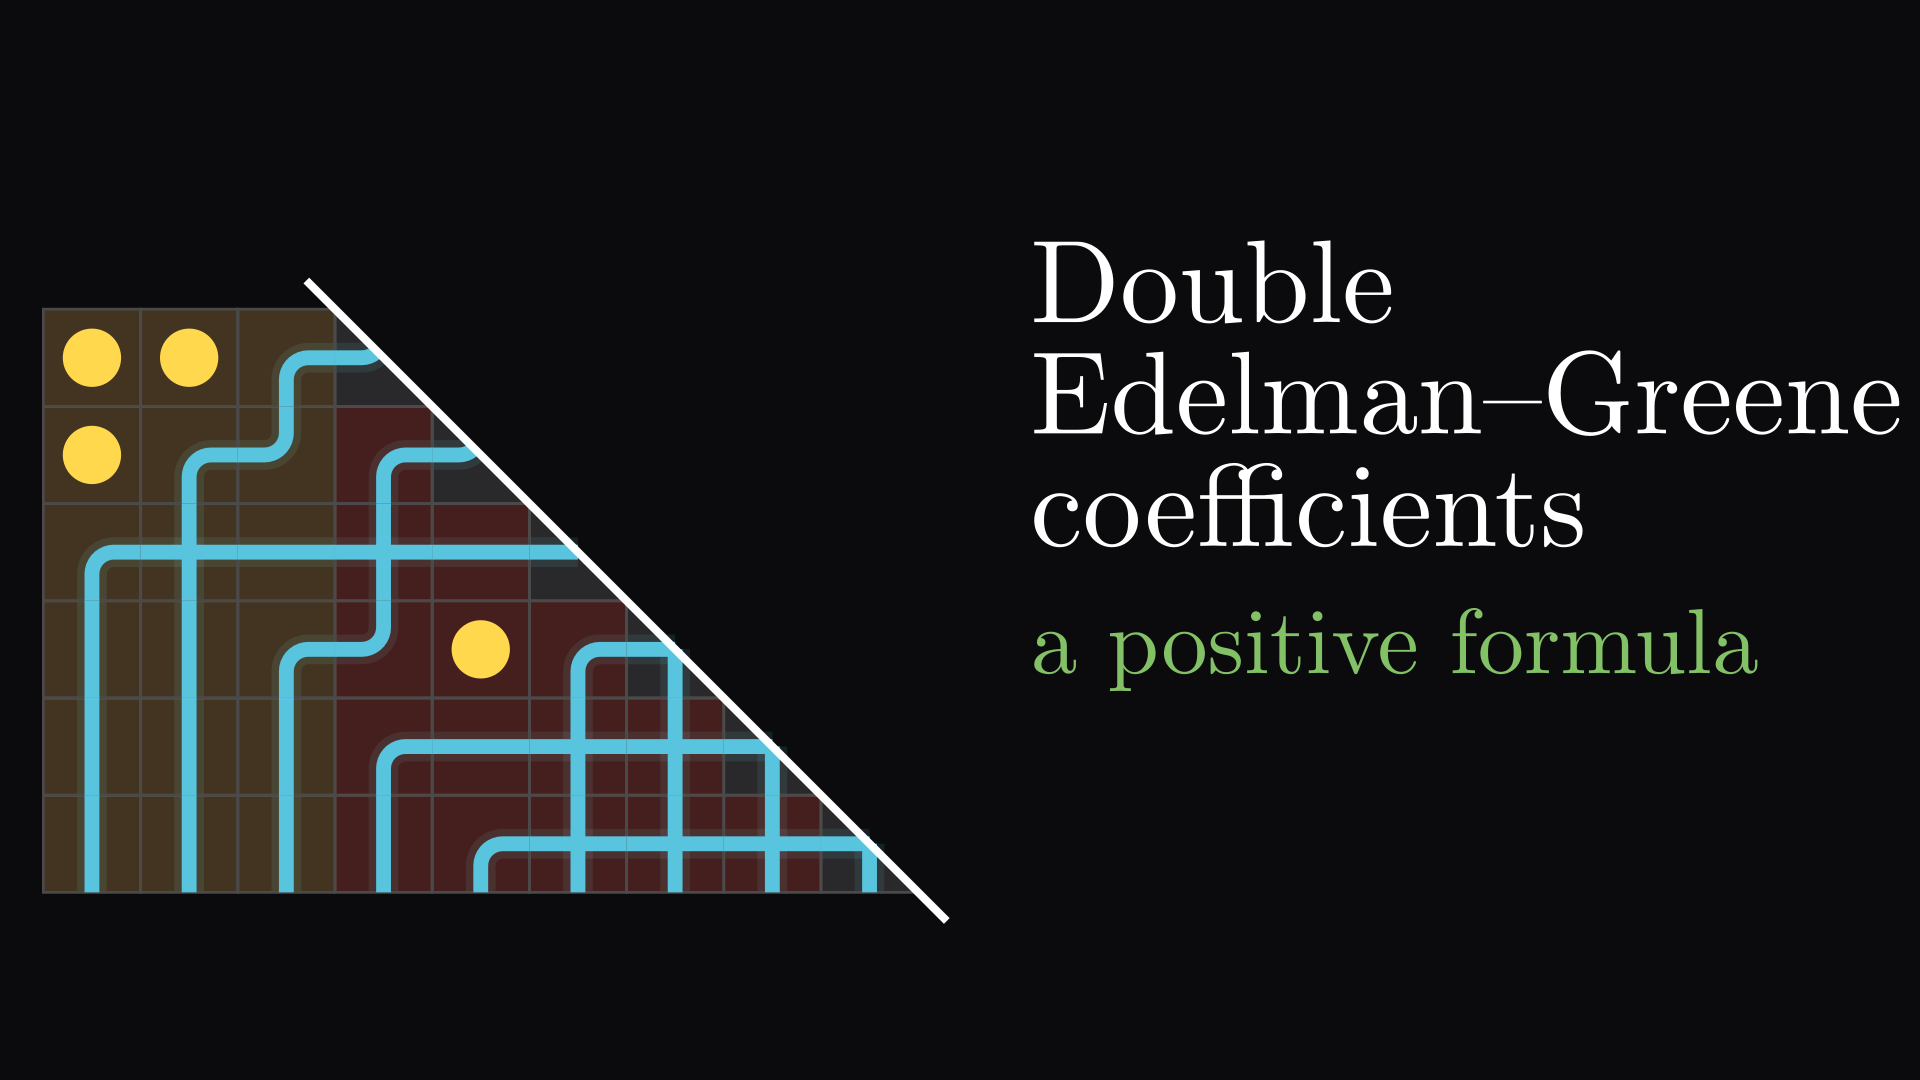
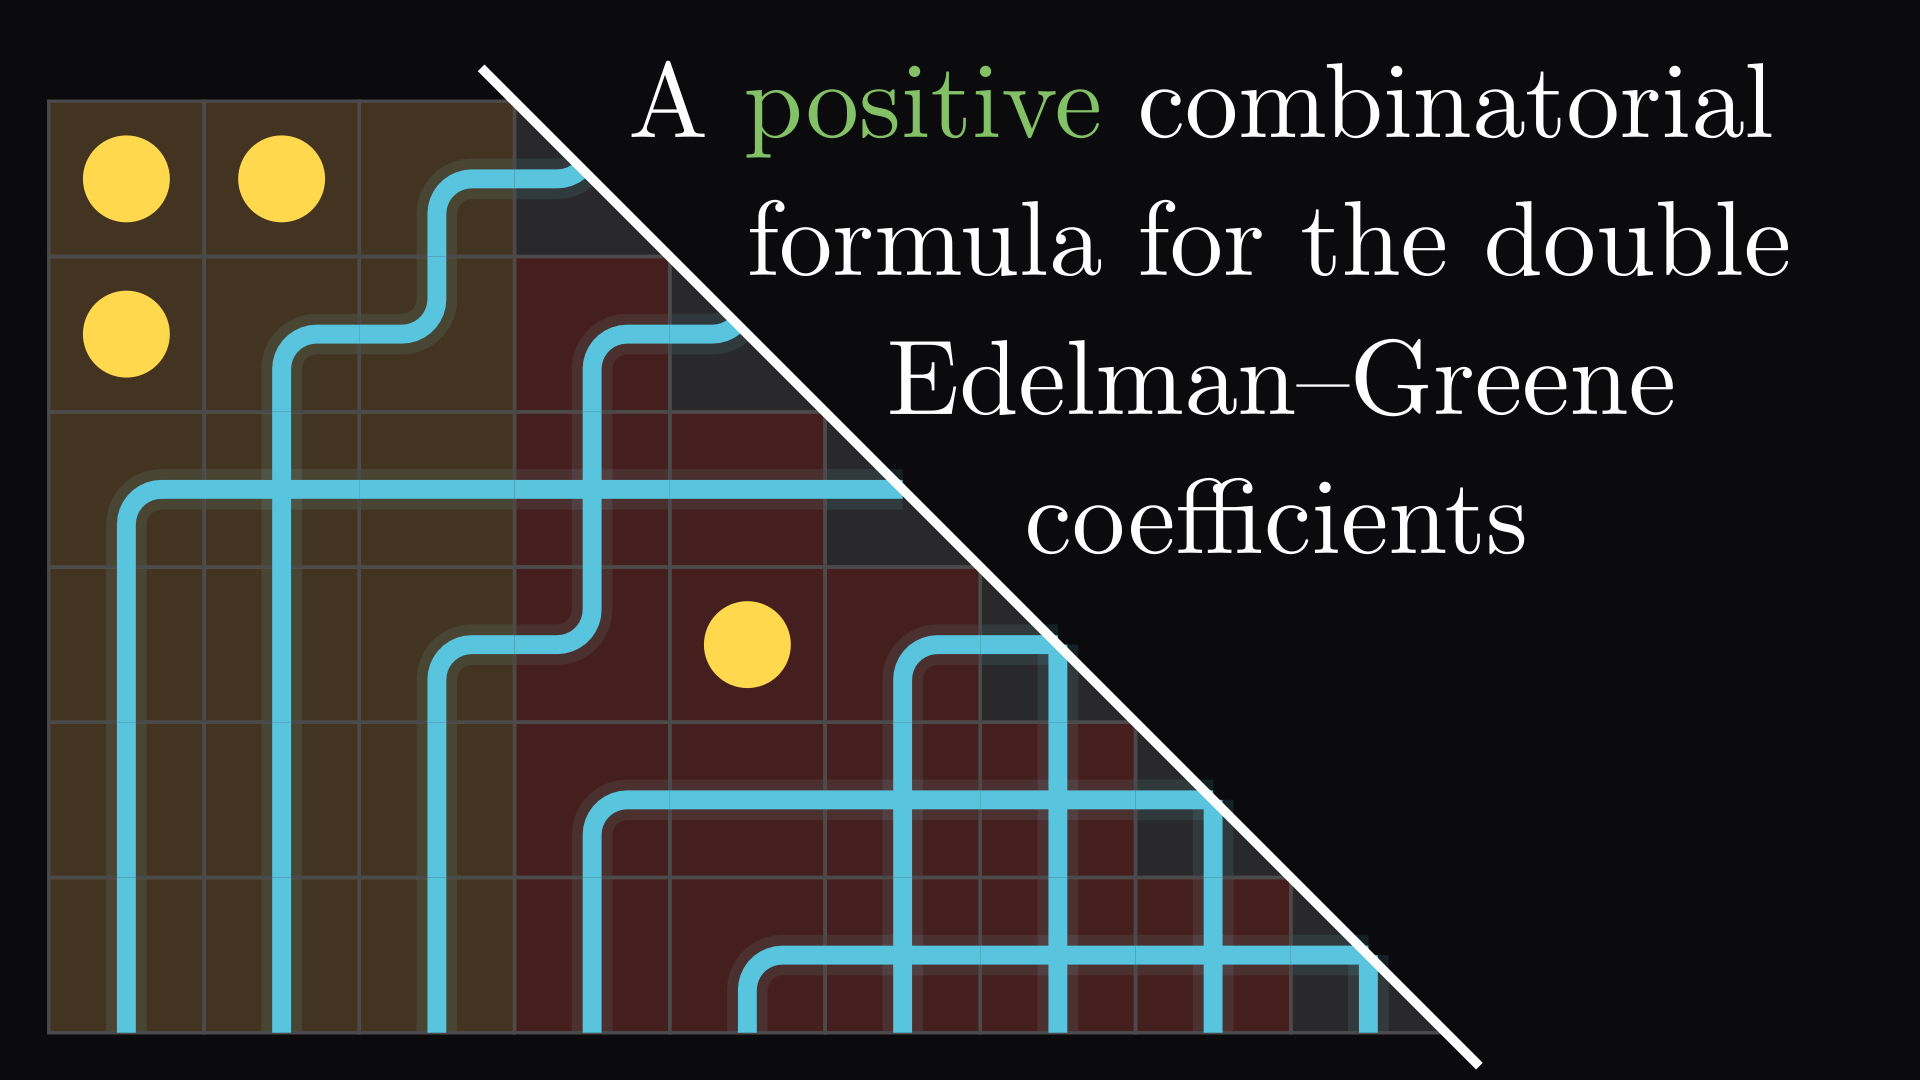
double-eg video: thumbnail with the paper's full title along the diagonal cut
Claude-Session: https://claude.ai/code/session_013HiyDHa1jzZiRKZ4kj6bsh

diff --git a/videos/double-eg/src/thumbnail.py b/videos/double-eg/src/thumbnail.py
@@ -1,4 +1,4 @@
-"""The thumbnail: a trapezoid bumpless pipe dream and the title.
+"""The thumbnail: a trapezoid bumpless pipe dream, with the paper's title above the diagonal cut.
 
     manim -s -r 1920,1080 thumbnail.py Thumbnail      # then copy the PNG to ../thumbnail.png
 
@@ -21,22 +21,27 @@ def zone(i, j):
 
 class Thumbnail(Scene):
     def construct(self):
-        cell = 0.72
-        T = cut_drawing(TILES, ROWS, COLS, cell, "lower", stroke=11)
+        cell = 1.15
+        T = cut_drawing(TILES, ROWS, COLS, cell, "lower", stroke=14)
         for (i, j), sq in T.squares.items():
-            sq.set_fill(zone(i, j), opacity=0.24).set_stroke(GRIDC, width=2)
+            sq.set_fill(zone(i, j), opacity=0.24).set_stroke(GRIDC, width=2.5)
         for sh in T.halves.values():
-            sh.set_fill(DIM, opacity=0.24).set_stroke(GRIDC, width=2)
-        glow = T.pipes.copy().set_stroke(PIPE, width=22, opacity=0.12)
-        T.move_to(np.array([-3.55, -0.45, 0]))
+            sh.set_fill(DIM, opacity=0.24).set_stroke(GRIDC, width=2.5)
+        glow = T.pipes.copy().set_stroke(PIPE, width=30, opacity=0.12)
+        T.shift(np.array([-6.75, -3.65, 0]) - T.get_corner(DL))
         glow.move_to(T.pipes)
-        dots = VGroup(*[Dot(T.cells[(i, j)].get_center(), radius=0.15 * cell * 2, color=HL)
+        dots = VGroup(*[Dot(T.cells[(i, j)].get_center(), radius=0.28 * cell, color=HL)
                         for (i, j) in T.cells if TILES[ROWS.index(i)][COLS.index(j)] == "O"])
-        cut = diagonal_line(T.cells, 6, color=WHITE, width=6, overhang=0.3)
+        cut = diagonal_line(T.cells, 6, color=WHITE, width=7, overhang=0.35)
 
-        title = VGroup(Tex("Double", font_size=84), Tex("Edelman--Greene", font_size=84),
-                       Tex("coefficients", font_size=84)).arrange(DOWN, aligned_edge=LEFT, buff=0.2)
-        sub = Tex("a positive formula", font_size=66, color=POS)
-        text = VGroup(title, sub).arrange(DOWN, aligned_edge=LEFT, buff=0.45)
-        text.move_to(np.array([0, 0.55, 0])).align_to(np.array([0.55, 0, 0]), LEFT)
-        self.add(glow, T, dots, cut, text)
+        # the title fills the empty triangle above the cut, each line starting just past it
+        lines = [Tex(r"A ", r"positive", r" combinatorial", font_size=76), Tex(r"formula for the double", font_size=76),
+                 Tex(r"Edelman--Greene", font_size=76), Tex(r"coefficients", font_size=76)]
+        lines[0][1].set_color(POS)
+        corner = T.cells[(1, 1)].get_corner(UL)            # the cut is the line x + y = corner_x + corner_y
+        top = 3.55
+        for k, t in enumerate(lines):
+            t.align_to(np.array([0, top - 1.03 * k, 0]), UP)
+            yb = t.get_bottom()[1]
+            t.align_to(np.array([corner[0] + corner[1] - yb + 0.45, 0, 0]), LEFT)
+        self.add(glow, T, dots, cut, *lines)

diff --git a/videos/double-eg/README.md b/videos/double-eg/README.md
@@ -8,7 +8,7 @@ by Jack Chen-An Chou and Tianyi Yu ([arXiv:2512.12185](https://arxiv.org/abs/251
   synthesized voice (Kyutai's [Pocket TTS](https://github.com/kyutai-labs/pocket-tts),
   cloned from the reference clip that ships with the model; no human voice was
   recorded for it). There are no captions and no music.
-- `thumbnail.png`: the thumbnail (1920×1080), a trapezoid bumpless pipe dream cut along the
+- `thumbnail.png`: the thumbnail (1920×1080): the paper's title over a trapezoid bumpless pipe dream cut along the
   diagonal; made by `src/thumbnail.py`.
 
 The whole video is one worked example in $S_\mathbb{Z}$, taken from the paper:
